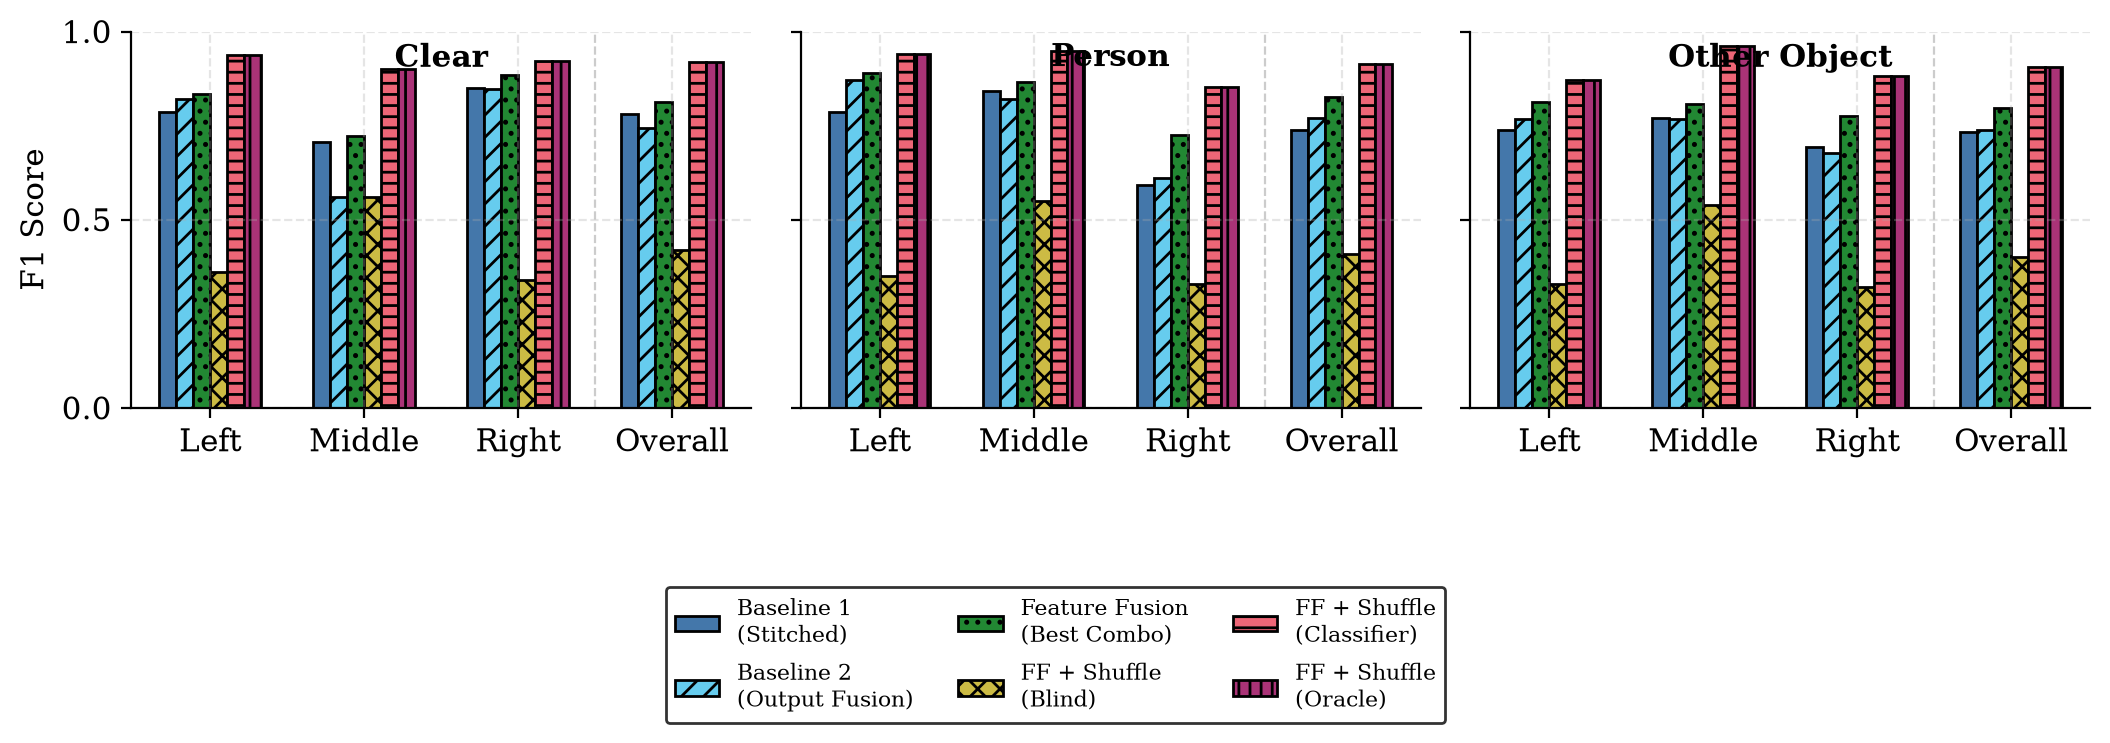
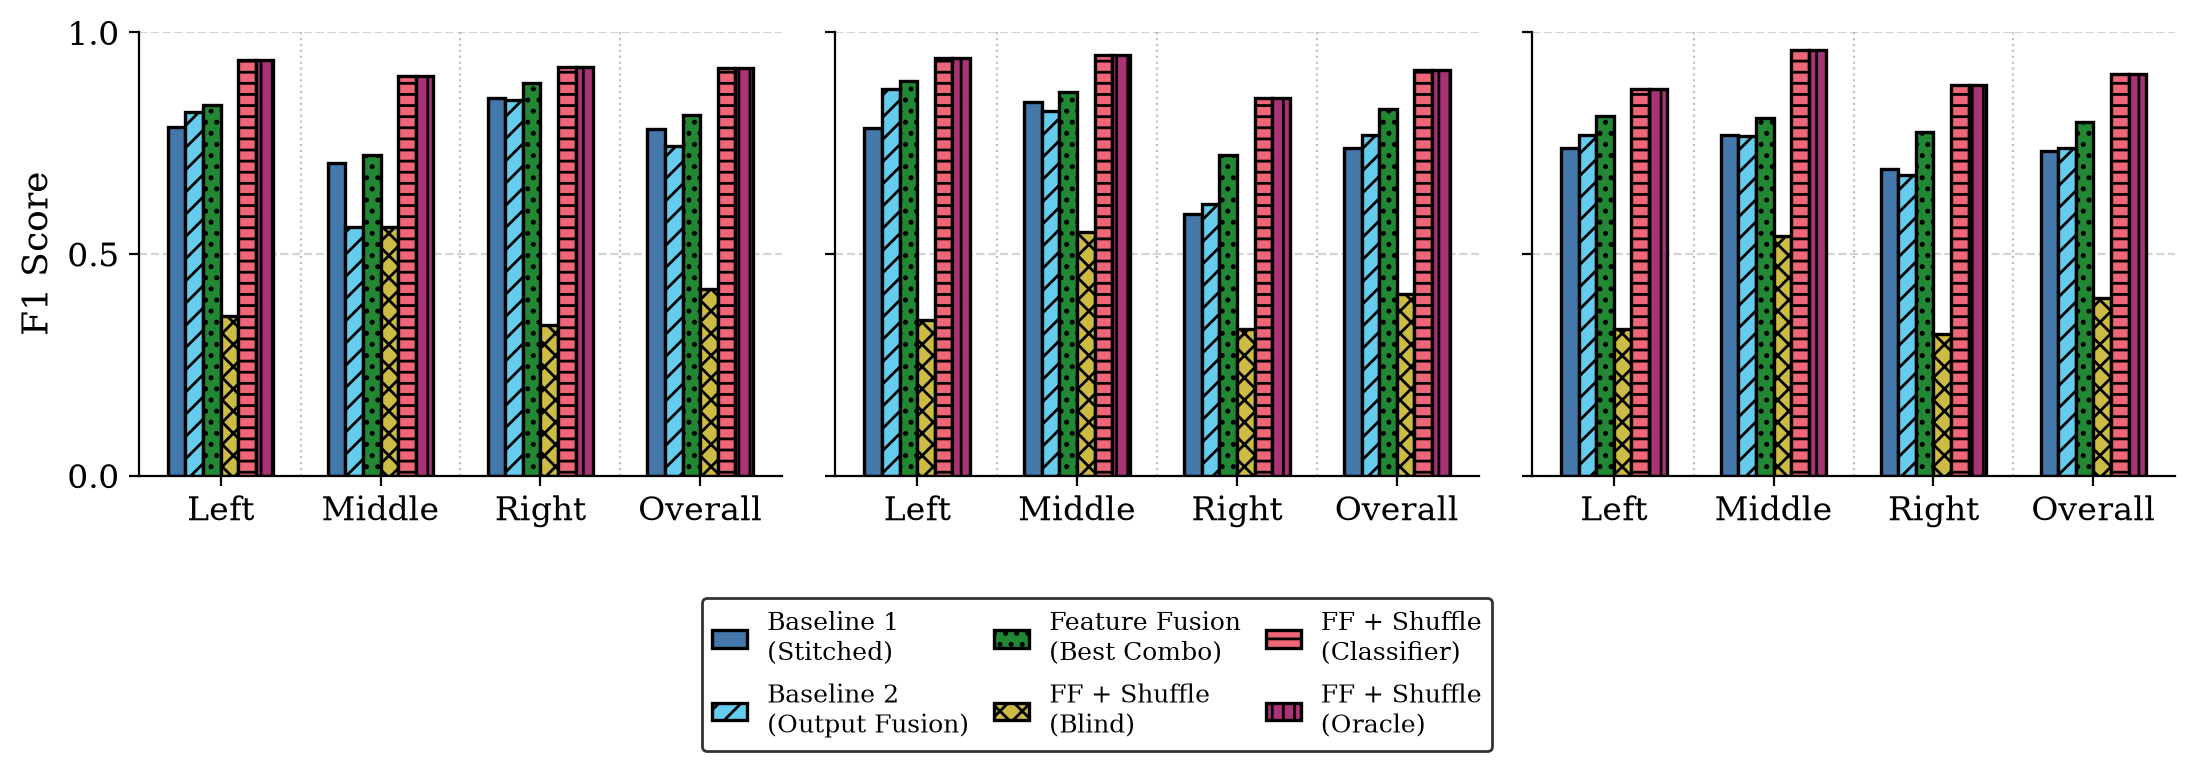
Match reference chart style; keep Times New Roman font
Fig1: three-panel layout with legend below (ASR-style), dotted group
separators, horizontal grid at 0/0.5/1.0, no in-plot titles.

Fig2: single grouped chart with upper-left legend and bold bar labels
(T2M/IPE-style). Retains our colors, hatches, data, and serif font.

diff --git a/regenerate_paper_figures.py b/regenerate_paper_figures.py
@@ -6,19 +6,17 @@ matplotlib.use("Agg")
 import matplotlib.pyplot as plt
 import numpy as np
 
+# Keep DareDevil paper font (Times New Roman serif)
 plt.rcParams.update({
     "font.family": "serif",
     "font.serif": ["Times New Roman", "Times", "DejaVu Serif"],
-    "font.size": 11,
-    "axes.labelsize": 11,
-    "xtick.labelsize": 11,
-    "ytick.labelsize": 11,
-    "legend.fontsize": 9,
+    "font.size": 13,
+    "axes.labelsize": 13,
+    "xtick.labelsize": 12,
+    "ytick.labelsize": 12,
+    "legend.fontsize": 10,
     "figure.dpi": 150,
-    "axes.grid": True,
-    "grid.alpha": 0.3,
-    "grid.linestyle": "--",
-    "grid.color": "#AAAAAA",
+    "axes.grid": False,
     "axes.spines.top": False,
     "axes.spines.right": False,
 })
@@ -26,12 +24,12 @@ plt.rcParams.update({
 OUT_DIR = Path(__file__).resolve().parent
 GROUPS = ["left", "middle", "right", "overall"]
 GROUP_LABELS = ["Left", "Middle", "Right", "Overall"]
-CLASS_LABELS = ["Clear", "Person", "Other Object"]
 CLASS_KEYS = [0, 1, 2]
 
-# Val-set per-class F1 (from figures-creation.ipynb Section 12 table)
+
 def _mk(c0, c1, c2):
     return {0: c0, 1: c1, 2: c2}
+
 
 models_data_by_class = {
     "Baseline 1\n(Stitched)": {
@@ -52,7 +50,6 @@ models_data_by_class = {
         "right": _mk(0.885, 0.724, 0.775),
         "overall": _mk(0.814, 0.827, 0.798),
     },
-    # Held-out test, shuffle variants (classifier/oracle from fig2; blind approximated from macro ratios)
     "FF + Shuffle\n(Blind)": {
         "left": _mk(0.36, 0.35, 0.33),
         "middle": _mk(0.56, 0.55, 0.54),
@@ -85,57 +82,67 @@ COLOR_CLASS = {
 }
 
 
-def _style_yaxis(ax, ylabel=None):
+def _style_axes(ax, ylabel=None):
+    """Match reference charts: y in [0,1], horizontal grid at 0.5 and 1.0 only."""
     ax.set_ylim(0, 1.0)
     ax.set_yticks([0, 0.5, 1.0])
+    ax.yaxis.grid(True, linestyle="--", color="#AAAAAA", alpha=0.5, linewidth=0.8)
+    ax.set_axisbelow(True)
     if ylabel:
-        ax.set_ylabel(ylabel, fontsize=11)
+        ax.set_ylabel(ylabel)
 
 
-def _add_grouped_bar_labels(ax, bar_groups, val_groups, base_pad=0.02, min_sep=0.03):
-    n_groups = len(val_groups[0])
-    label_top = 0.0
-    for gi in range(n_groups):
+def _group_separators(ax, n_groups):
+    for xi in range(1, n_groups):
+        ax.axvline(xi - 0.5, color="#AAAAAA", linestyle=":", linewidth=0.8, alpha=0.7)
+
+
+def _add_bar_value_labels(ax, bar_groups, val_groups, fmt="{:.2f}"):
+    """Reference-style bold value labels above bars; stagger only when needed."""
+    for gi in range(len(val_groups[0])):
         pts = []
         for bars, vals in zip(bar_groups, val_groups):
             bar = bars[gi]
             pts.append((bar.get_x() + bar.get_width() / 2, vals[gi]))
-        ys = [val + base_pad for _, val in pts]
+        ys = [val + 0.02 for _, val in pts]
         for i in range(1, len(pts)):
             if abs(pts[i][0] - pts[i - 1][0]) < 0.25 and abs(pts[i][1] - pts[i - 1][1]) < 0.03:
-                ys[i] = max(ys[i], ys[i - 1] + min_sep)
+                ys[i] = max(ys[i], ys[i - 1] + 0.03)
         for (cx, val), y in zip(pts, ys):
-            ax.text(cx, y, f"{val:.2f}", ha="center", va="bottom", fontsize=8, clip_on=False)
-            label_top = max(label_top, y)
-    return label_top
+            ax.text(cx, y, fmt.format(val), ha="center", va="bottom",
+                    fontsize=9, fontweight="bold", clip_on=False)
+
+
+def _legend_below(fig, handles, labels, ncol=3, bottom=0.30):
+    fig.legend(handles, labels, loc="upper center", bbox_to_anchor=(0.5, 0.02),
+               ncol=ncol, frameon=True, edgecolor="black", facecolor="white",
+               fontsize=9, columnspacing=1.0, handlelength=1.4)
+    fig.subplots_adjust(bottom=bottom)
 
 
 def draw_fig1():
+    """Three-panel layout like the WER/SS reference; legend below in columns."""
     model_names = list(models_data_by_class.keys())
     n_models = len(model_names)
-    fig, axes = plt.subplots(1, 3, figsize=(10.5, 2.8), sharey=True)
+    fig, axes = plt.subplots(1, 3, figsize=(11, 3.0), sharey=True)
     x = np.arange(len(GROUPS))
     w = 0.11
     offsets = np.linspace(-(n_models - 1) / 2 * w, (n_models - 1) / 2 * w, n_models)
 
-    for ax, cls_key, panel_label in zip(axes, CLASS_KEYS, CLASS_LABELS):
+    for ax, cls_key in zip(axes, CLASS_KEYS):
         for name, shade, hatch, offset in zip(model_names, COLOR_SHADES, COLOR_HATCHES, offsets):
             vals = [models_data_by_class[name][g][cls_key] for g in GROUPS]
             ax.bar(x + offset, vals, w, color=shade, hatch=hatch,
-                   edgecolor="black", linewidth=1.0, label=name)
-        ax.axvline(x[-1] - 0.5, color="#AAAAAA", linestyle="--", linewidth=0.8, alpha=0.6)
+                   edgecolor="black", linewidth=1.2, label=name)
+        _group_separators(ax, len(GROUPS))
         ax.set_xticks(x)
-        ax.set_xticklabels(GROUP_LABELS, fontsize=11)
-        _style_yaxis(ax)
-        ax.text(0.5, 0.97, panel_label, transform=ax.transAxes,
-                ha="center", va="top", fontsize=11, fontweight="bold")
+        ax.set_xticklabels(GROUP_LABELS)
+        _style_axes(ax)
 
-    _style_yaxis(axes[0], "F1 Score")
+    axes[0].set_ylabel("F1 Score")
     handles, labels = axes[0].get_legend_handles_labels()
-    fig.legend(handles, labels, loc="upper center", bbox_to_anchor=(0.5, -0.02),
-               ncol=3, frameon=True, edgecolor="black", fontsize=8)
-    plt.tight_layout(pad=0.5)
-    fig.subplots_adjust(bottom=0.28, wspace=0.08)
+    _legend_below(fig, handles, labels, ncol=3, bottom=0.32)
+    plt.tight_layout(rect=[0, 0.08, 1, 1], pad=0.6, w_pad=1.2)
     path = OUT_DIR / "fig1_macro_f1_color.png"
     plt.savefig(path, dpi=200, bbox_inches="tight", facecolor="white")
     plt.close()
@@ -143,25 +150,25 @@ def draw_fig1():
 
 
 def draw_fig2():
+    """Single grouped chart like the T2M/IPE reference; legend upper-left."""
     x = np.arange(len(GROUPS))
-    w = 0.22
-    fig, ax = plt.subplots(figsize=(5.5, 2.8))
-    kw = dict(edgecolor="black", linewidth=1.0)
+    w = 0.24
+    fig, ax = plt.subplots(figsize=(6.0, 3.0))
+    kw = dict(edgecolor="black", linewidth=1.2)
     b1 = ax.bar(x - w, clear_f1, w, label="Clear",
                 color=COLOR_CLASS["Clear"][0], hatch=COLOR_CLASS["Clear"][1], **kw)
     b2 = ax.bar(x, person_f1, w, label="Person",
                 color=COLOR_CLASS["Person"][0], hatch=COLOR_CLASS["Person"][1], **kw)
     b3 = ax.bar(x + w, other_f1, w, label="Other Object",
                 color=COLOR_CLASS["Other Object"][0], hatch=COLOR_CLASS["Other Object"][1], **kw)
-    _add_grouped_bar_labels(ax, [b1, b2, b3], [clear_f1, person_f1, other_f1])
-    ax.axvline(x[-1] - 0.5, color="#AAAAAA", linestyle="--", linewidth=0.8, alpha=0.6)
+    _add_bar_value_labels(ax, [b1, b2, b3], [clear_f1, person_f1, other_f1])
+    _group_separators(ax, len(GROUPS))
     ax.set_xticks(x)
-    ax.set_xticklabels(GROUP_LABELS, fontsize=11)
-    _style_yaxis(ax, "F1 Score")
-    ax.legend(loc="upper center", bbox_to_anchor=(0.5, -0.18), ncol=3,
-              frameon=True, edgecolor="black", fontsize=9)
-    plt.tight_layout(pad=0.5)
-    fig.subplots_adjust(bottom=0.22)
+    ax.set_xticklabels(GROUP_LABELS)
+    _style_axes(ax, "F1 Score")
+    ax.legend(loc="upper left", frameon=True, edgecolor="black", facecolor="white",
+              fontsize=10, handlelength=1.4)
+    plt.tight_layout(pad=0.6)
     path = OUT_DIR / "fig2_ff_per_class_color.png"
     plt.savefig(path, dpi=200, bbox_inches="tight", facecolor="white")
     plt.close()
